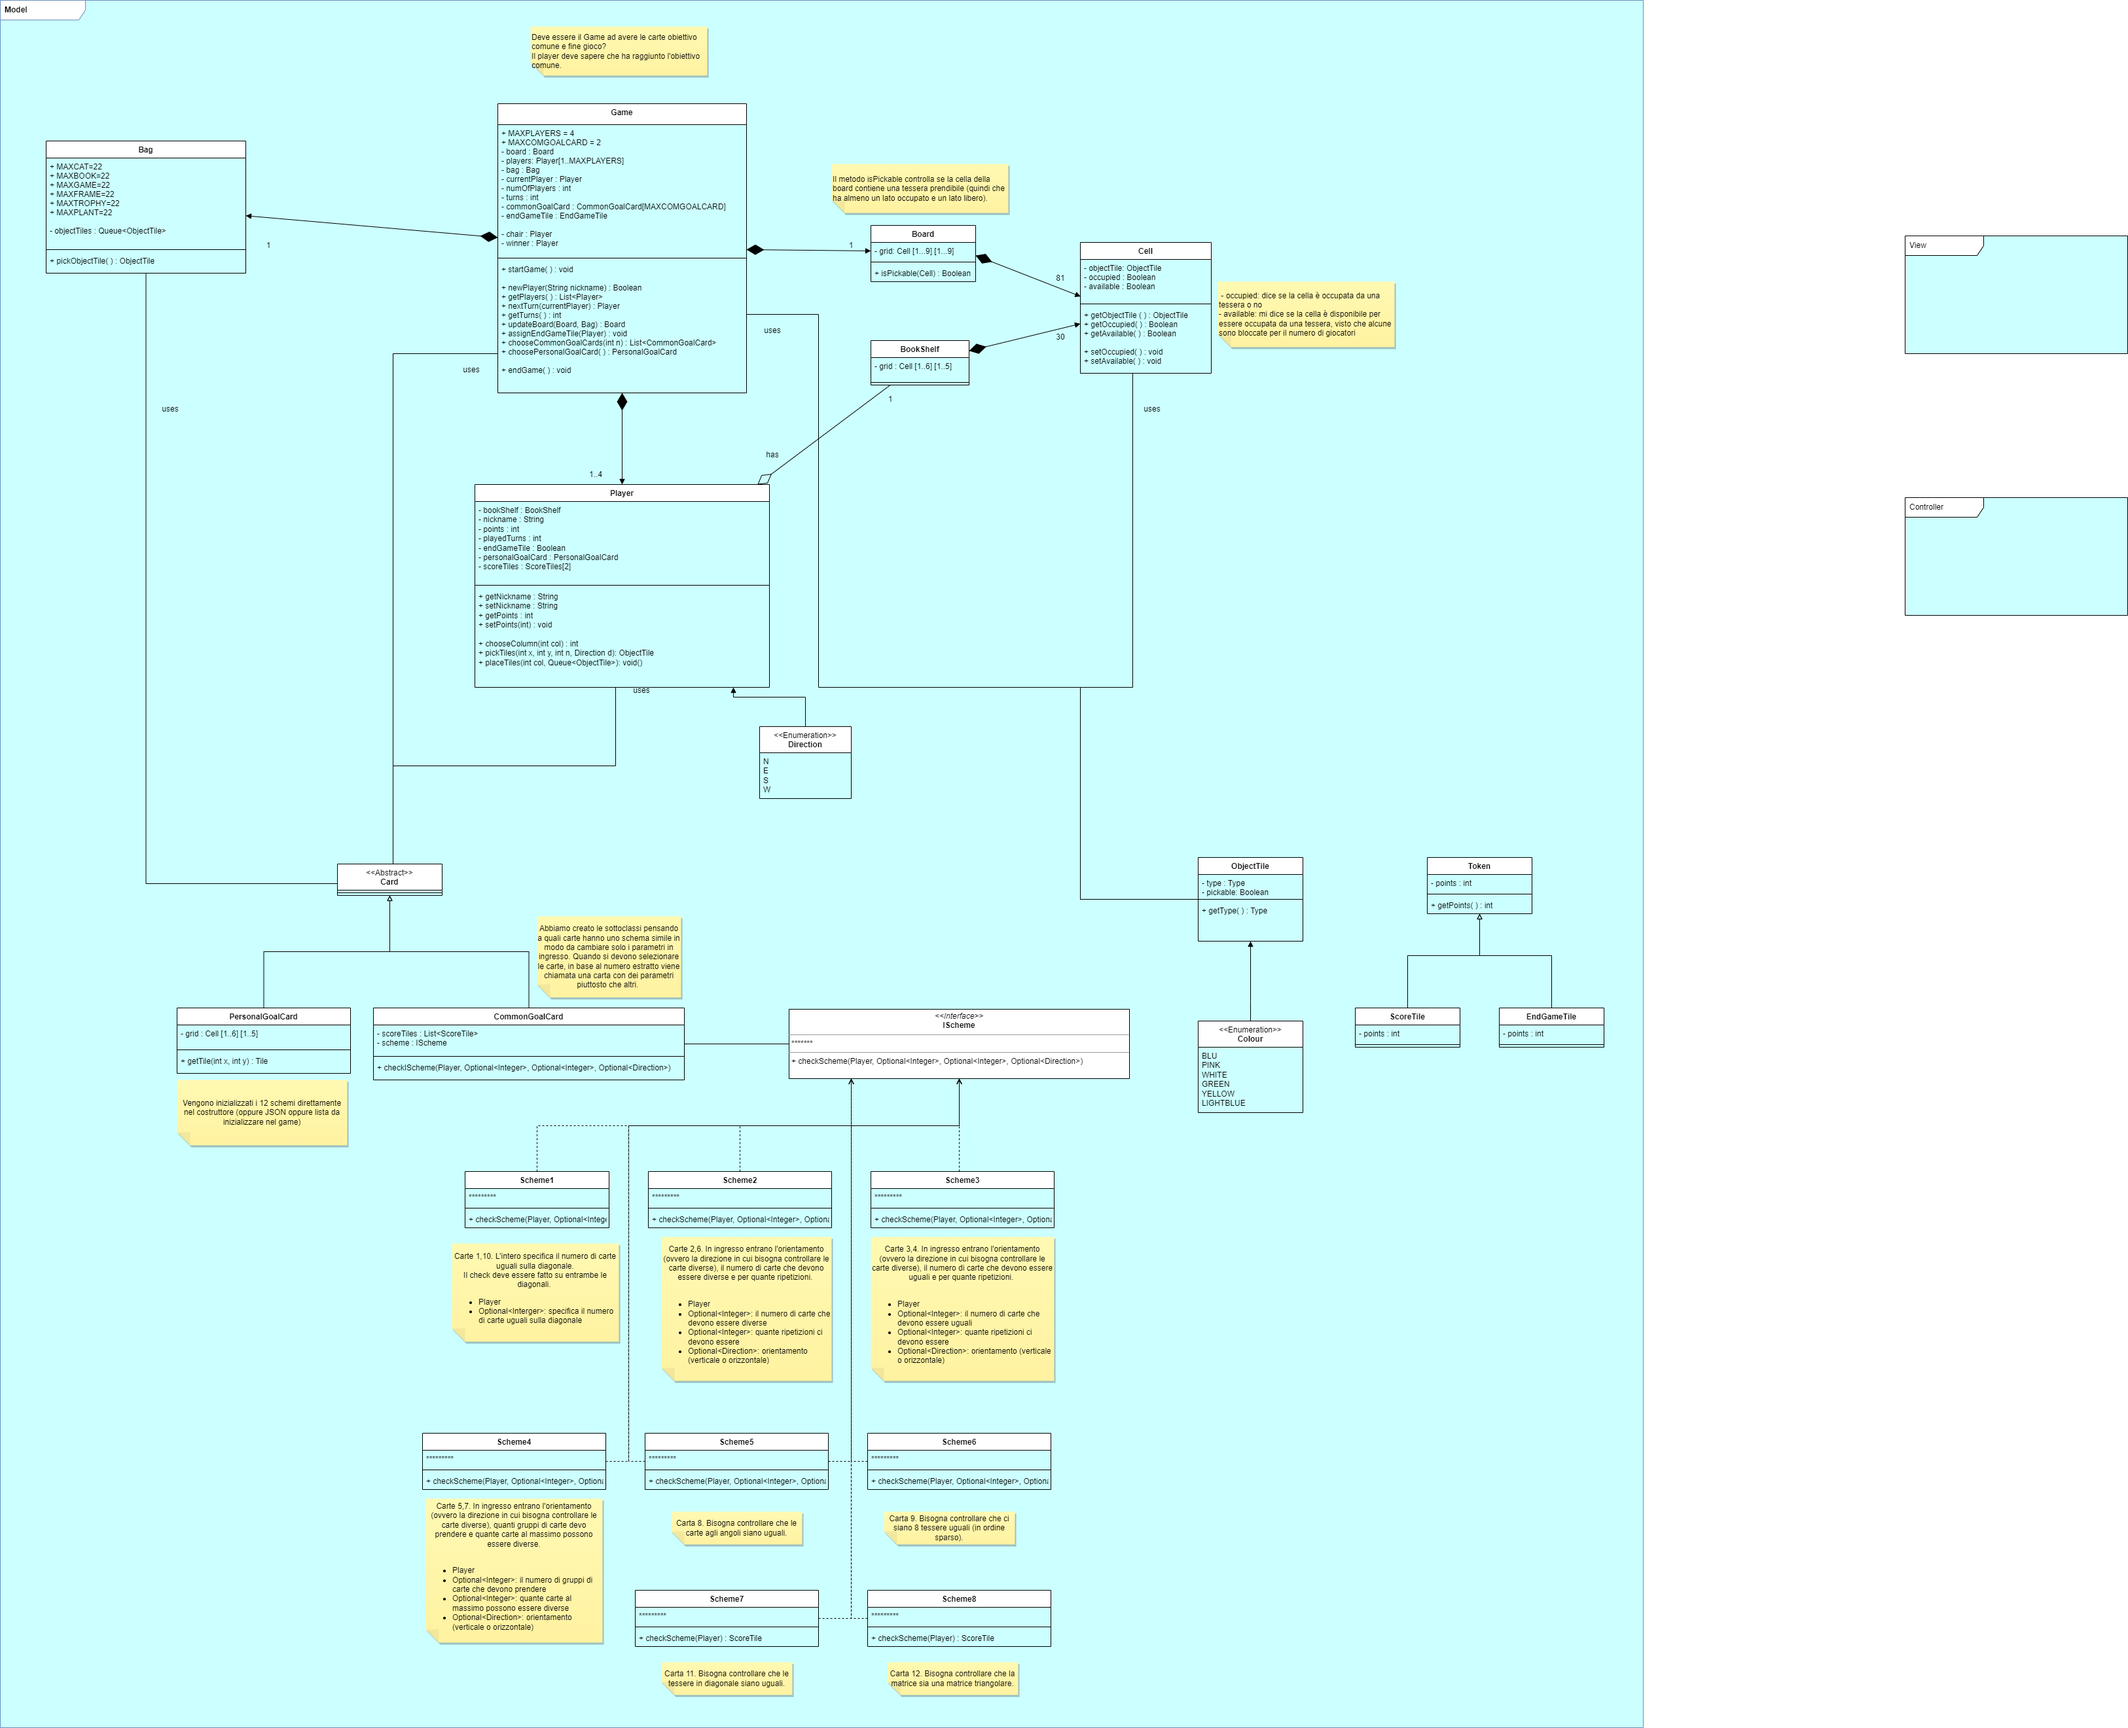
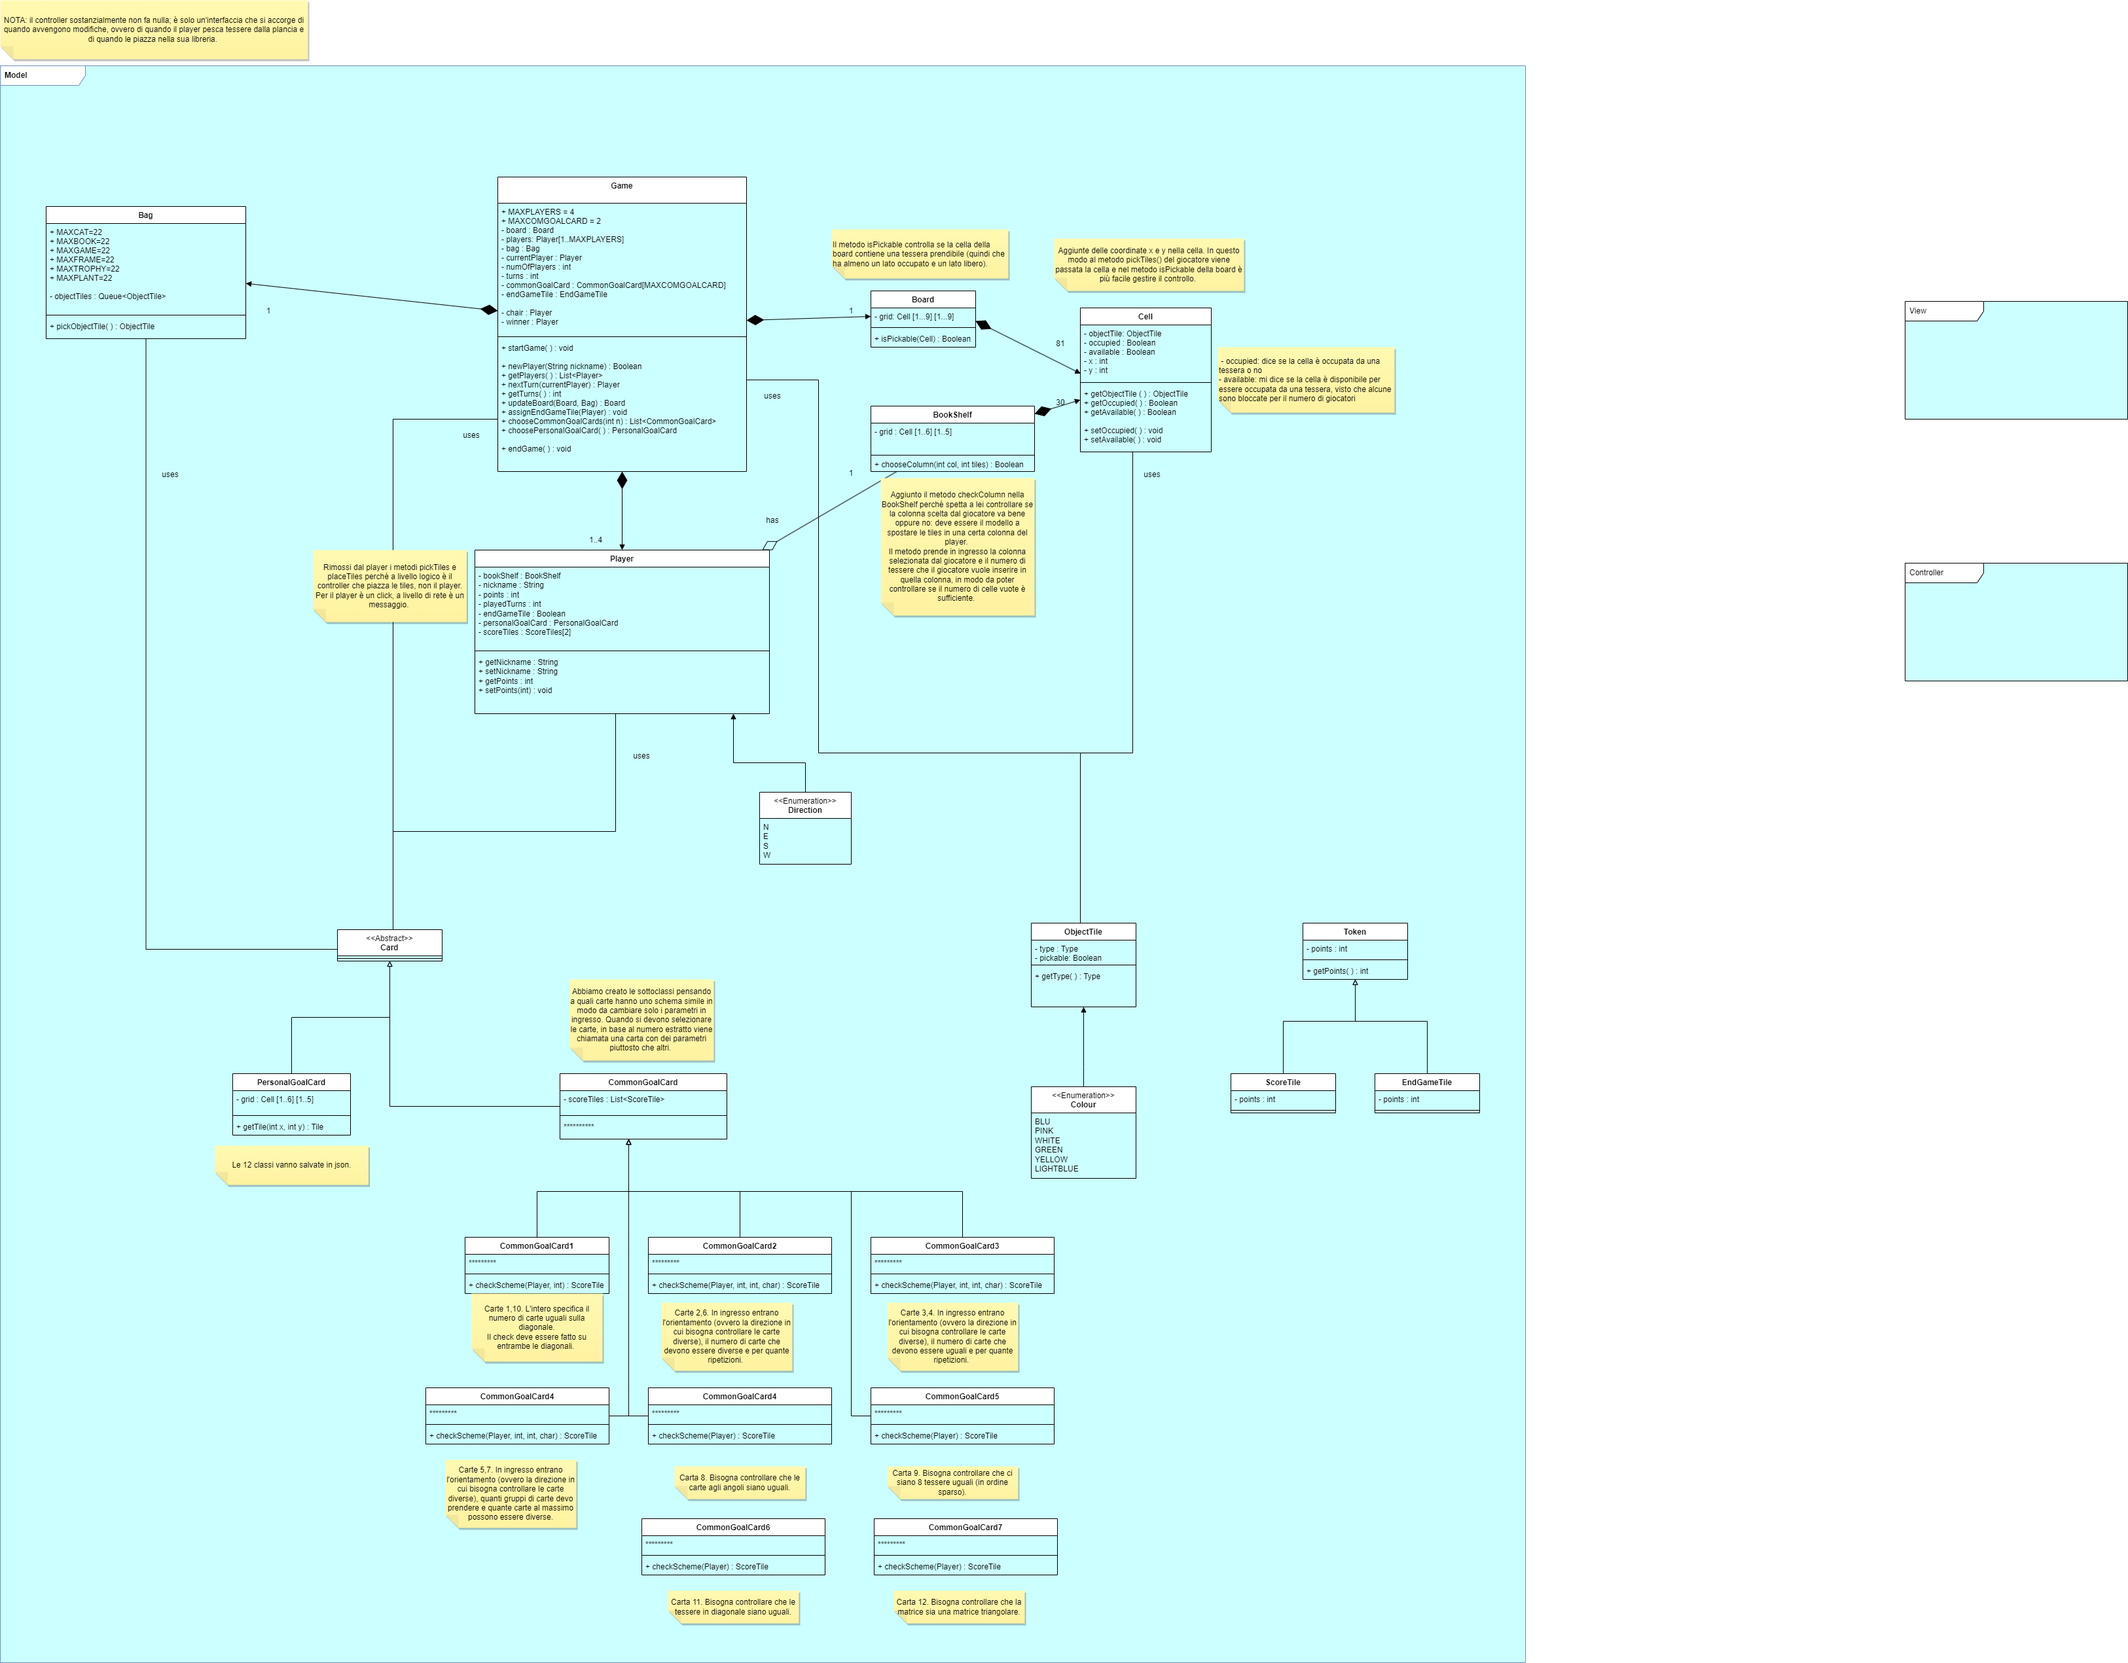
Classes and UML modified
Added the classes I had to.
UML modified with suggestions from lab 2.

diff --git a/src/main/java/it/polimi/ingsw/model/Board.java b/src/main/java/it/polimi/ingsw/model/Board.java
@@ -1,0 +1,61 @@
+package it.polimi.ingsw.model;
+
+/**
+ * This class represents the game's board.
+ */
+public class Board {
+
+    /**
+     * This variable represents the board.
+     */
+    Cell[][] grid = new Cell[9][9];
+
+    /**
+     * This method determines whether a cell is pickable or not.
+     * A cell is pickable if it has at least one side free and at least one side occupied.
+     * @param cell This is the cell we want to check.
+     * @return returns true if the cell is pickable.
+     */
+    Boolean isPickable(Cell cell) {
+
+        /**
+         * This variable represents the cell's x coordinate.
+         */
+        int x = cell.x;
+
+        /**
+         * This variable represents the cell's y coordinate.
+         */
+        int y = cell.y;
+
+
+        /**
+         * If the cell has all of its side free, the method will return false because the cell isn't pickable.
+         */
+        if ( grid[x+1][y].occupied == false
+                && grid[x-1][y].occupied == false
+                && grid[x][y+1].occupied == false
+                && grid[x][y-1].occupied == false ){
+            return false;
+        }
+
+
+        /**
+         * If the cell has all of its side occupied, the method will return false because the cell isn't pickable.
+         */
+        if ( grid[x+1][y].occupied == true &&
+                grid[x-1][y].occupied == true &&
+                grid[x][y+1].occupied == true &&
+                grid[x][y-1].occupied == true) {
+            return false;
+        }
+
+
+        /**
+         * If none of the conditions above is verified, the method will return true because the cell is pickable.
+         */
+        return true;
+    }
+
+
+}

diff --git a/src/main/java/it/polimi/ingsw/model/Cell.java b/src/main/java/it/polimi/ingsw/model/Cell.java
@@ -1,0 +1,76 @@
+package it.polimi.ingsw.model;
+
+/**
+ * This class represents the cell.
+ */
+public class Cell {
+    /**
+     * This attribute represents the object tile contained in the cell.
+     */
+    ObjectTile objectTile;
+    /**
+     * This attribute tells whether the cell is occupied or not.
+     */
+    Boolean occupied;
+    /**
+     * This attribute tells whether the cell is available or not.
+     */
+    Boolean available;
+
+    /**
+     * This variable specifies the x coordinate of the cell.
+     */
+    int x;
+
+    /**
+     * This variable specifies the x coordinate of the cell.
+     */
+    int y;
+
+    /**
+     *
+     * @return The object tile contained in the cell.
+     */
+    ObjectTile getObjectTile(){
+        return this.objectTile;
+    }
+
+    /**
+     *
+     * @return Whether the cell is occupied or not.
+     */
+    Boolean getOccupied() {
+        boolean b = true;
+        if (occupied) {
+            return true;
+        } else
+            return false;
+    }
+
+    /**
+     *
+     * @return Whether the cell is available or not.
+     */
+    Boolean getAvailable() {
+        boolean b = true;
+        if (available) {
+            return true;
+        } else
+            return false;
+    }
+
+    /**
+     * This method is the constructor for the occupancy.
+     */
+    void setOccupied() {
+        this.occupied = occupied;
+    }
+
+    /**
+     * This method is the constructor for the availability.
+     */
+    void setAvailable() {
+        this.available = available;
+    }
+
+}

diff --git a/src/main/java/it/polimi/ingsw/model/BookShelf.java b/src/main/java/it/polimi/ingsw/model/BookShelf.java
@@ -1,0 +1,27 @@
+package it.polimi.ingsw.model;
+
+/**
+ * This class represents the player's bookshelf.
+ */
+public class BookShelf {
+
+    /**
+     * This attribute specifies the grid's dimensions.
+     */
+    Cell[][] grid = new Cell[6][5];
+
+    /**
+     * This method checks whether the column chosen by the player is correct or not.
+     * The column is correct if it has a number of free cells at least equals to the number of tiles
+     * the player wants to insert.
+     * @param col Number of the column chosen by the player.
+     * @param tiles Number of tiles the player wants to insert.
+     * @return True if the play is valid, false otherwise.
+     */
+    Boolean checkColumn(int col, int tiles) {
+        int n = col;
+
+        return false;
+    }
+
+}

diff --git a/src/main/java/it/polimi/ingsw/model/ObjectTile.java b/src/main/java/it/polimi/ingsw/model/ObjectTile.java
@@ -1,0 +1,36 @@
+package it.polimi.ingsw.model;
+
+import java.awt.*;
+
+/**
+ * This class represents the object tiles.
+ */
+public class ObjectTile {
+
+    /**
+     * This variable specifies the color of the object tile.
+     */
+    Color color;
+
+    /**
+     * This variable specifies whether the object tile is pickable or not.
+     */
+    Boolean pickable;
+
+    /**
+     * This method sets the color for the object tile.
+     * It is the class' constructor.
+     */
+    void ObjectTile() {
+        this.color = color;
+    }
+
+    /**
+     * This method returns the object tile's color.
+     * @return
+     */
+    Color getColor() {
+        return this.color;
+    }
+
+}

diff --git a/src/main/java/it/polimi/ingsw/model/Token.java b/src/main/java/it/polimi/ingsw/model/Token.java
@@ -1,0 +1,20 @@
+package it.polimi.ingsw.model;
+
+/**
+ * This class represents the possible tokens.
+ */
+public class Token {
+
+    /**
+     * This variable represents the token's point.
+     */
+    int points;
+
+    /**
+     * This method returns the token's points.
+     * @return
+     */
+    int getPoints(){
+        return this.points;
+    }
+}

diff --git a/src/main/java/it/polimi/ingsw/model/Color.java b/src/main/java/it/polimi/ingsw/model/Color.java
@@ -1,0 +1,19 @@
+package it.polimi.ingsw.model;
+
+/**
+ * This is the enumeration of the possible tile's colors.
+ */
+public enum Color {
+
+    /**
+     * These are the possible colors for the object tiles.
+     */
+
+    BLUE,
+    PINK,
+    WHITE,
+    GREEN,
+    YELLOW,
+    LIGHTBLUE;
+
+}

diff --git a/src/main/java/it/polimi/ingsw/model/EndGameTile.java b/src/main/java/it/polimi/ingsw/model/EndGameTile.java
@@ -1,0 +1,8 @@
+package it.polimi.ingsw.model;
+
+/**
+ * This class represents the end game  tile.
+ */
+public class EndGameTile {
+    private final int points = 1;
+}

diff --git a/src/main/java/it/polimi/ingsw/model/ScoreTile.java b/src/main/java/it/polimi/ingsw/model/ScoreTile.java
@@ -1,0 +1,8 @@
+package it.polimi.ingsw.model;
+
+/**
+ * This class represents the score tiles.
+ */
+public class ScoreTile extends Token{
+
+}
